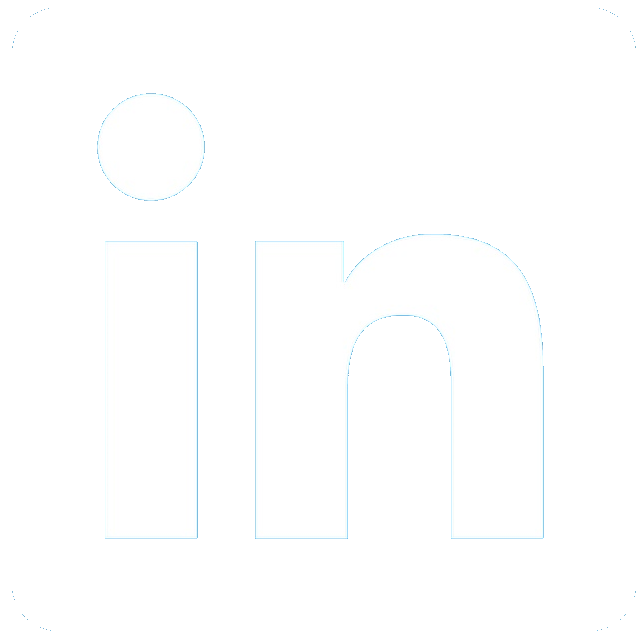
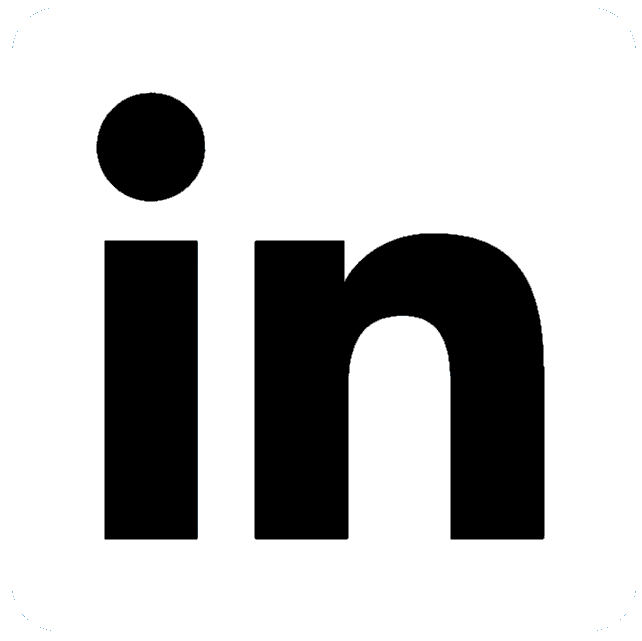
Switched to white theme

Changed region(s): [[0.3738, 0.3432, 0.8723, 0.8424], [0.1558, 0.3744, 0.3115, 0.8424], [0.1246, 0.1248, 0.3427, 0.312]]

diff --git a/index.html b/index.html
@@ -9,7 +9,7 @@
 		<title>Moving Beyond the Basics in SpecFlow</title>
 
 		<link rel="stylesheet" href="css/reveal.css">
-		<link rel="stylesheet" href="css/theme/black.css">
+		<link rel="stylesheet" href="css/theme/white.css">
 
 		<!-- Theme used for syntax highlighting of code -->
 		<link rel="stylesheet" href="lib/css/zenburn.css">

diff --git a/css/custom.css b/css/custom.css
@@ -1,4 +1,8 @@
 
+.reveal pre {
+	box-shadow: unset;
+}
+
 .reveal pre code {
 	max-height: unset;
 }
